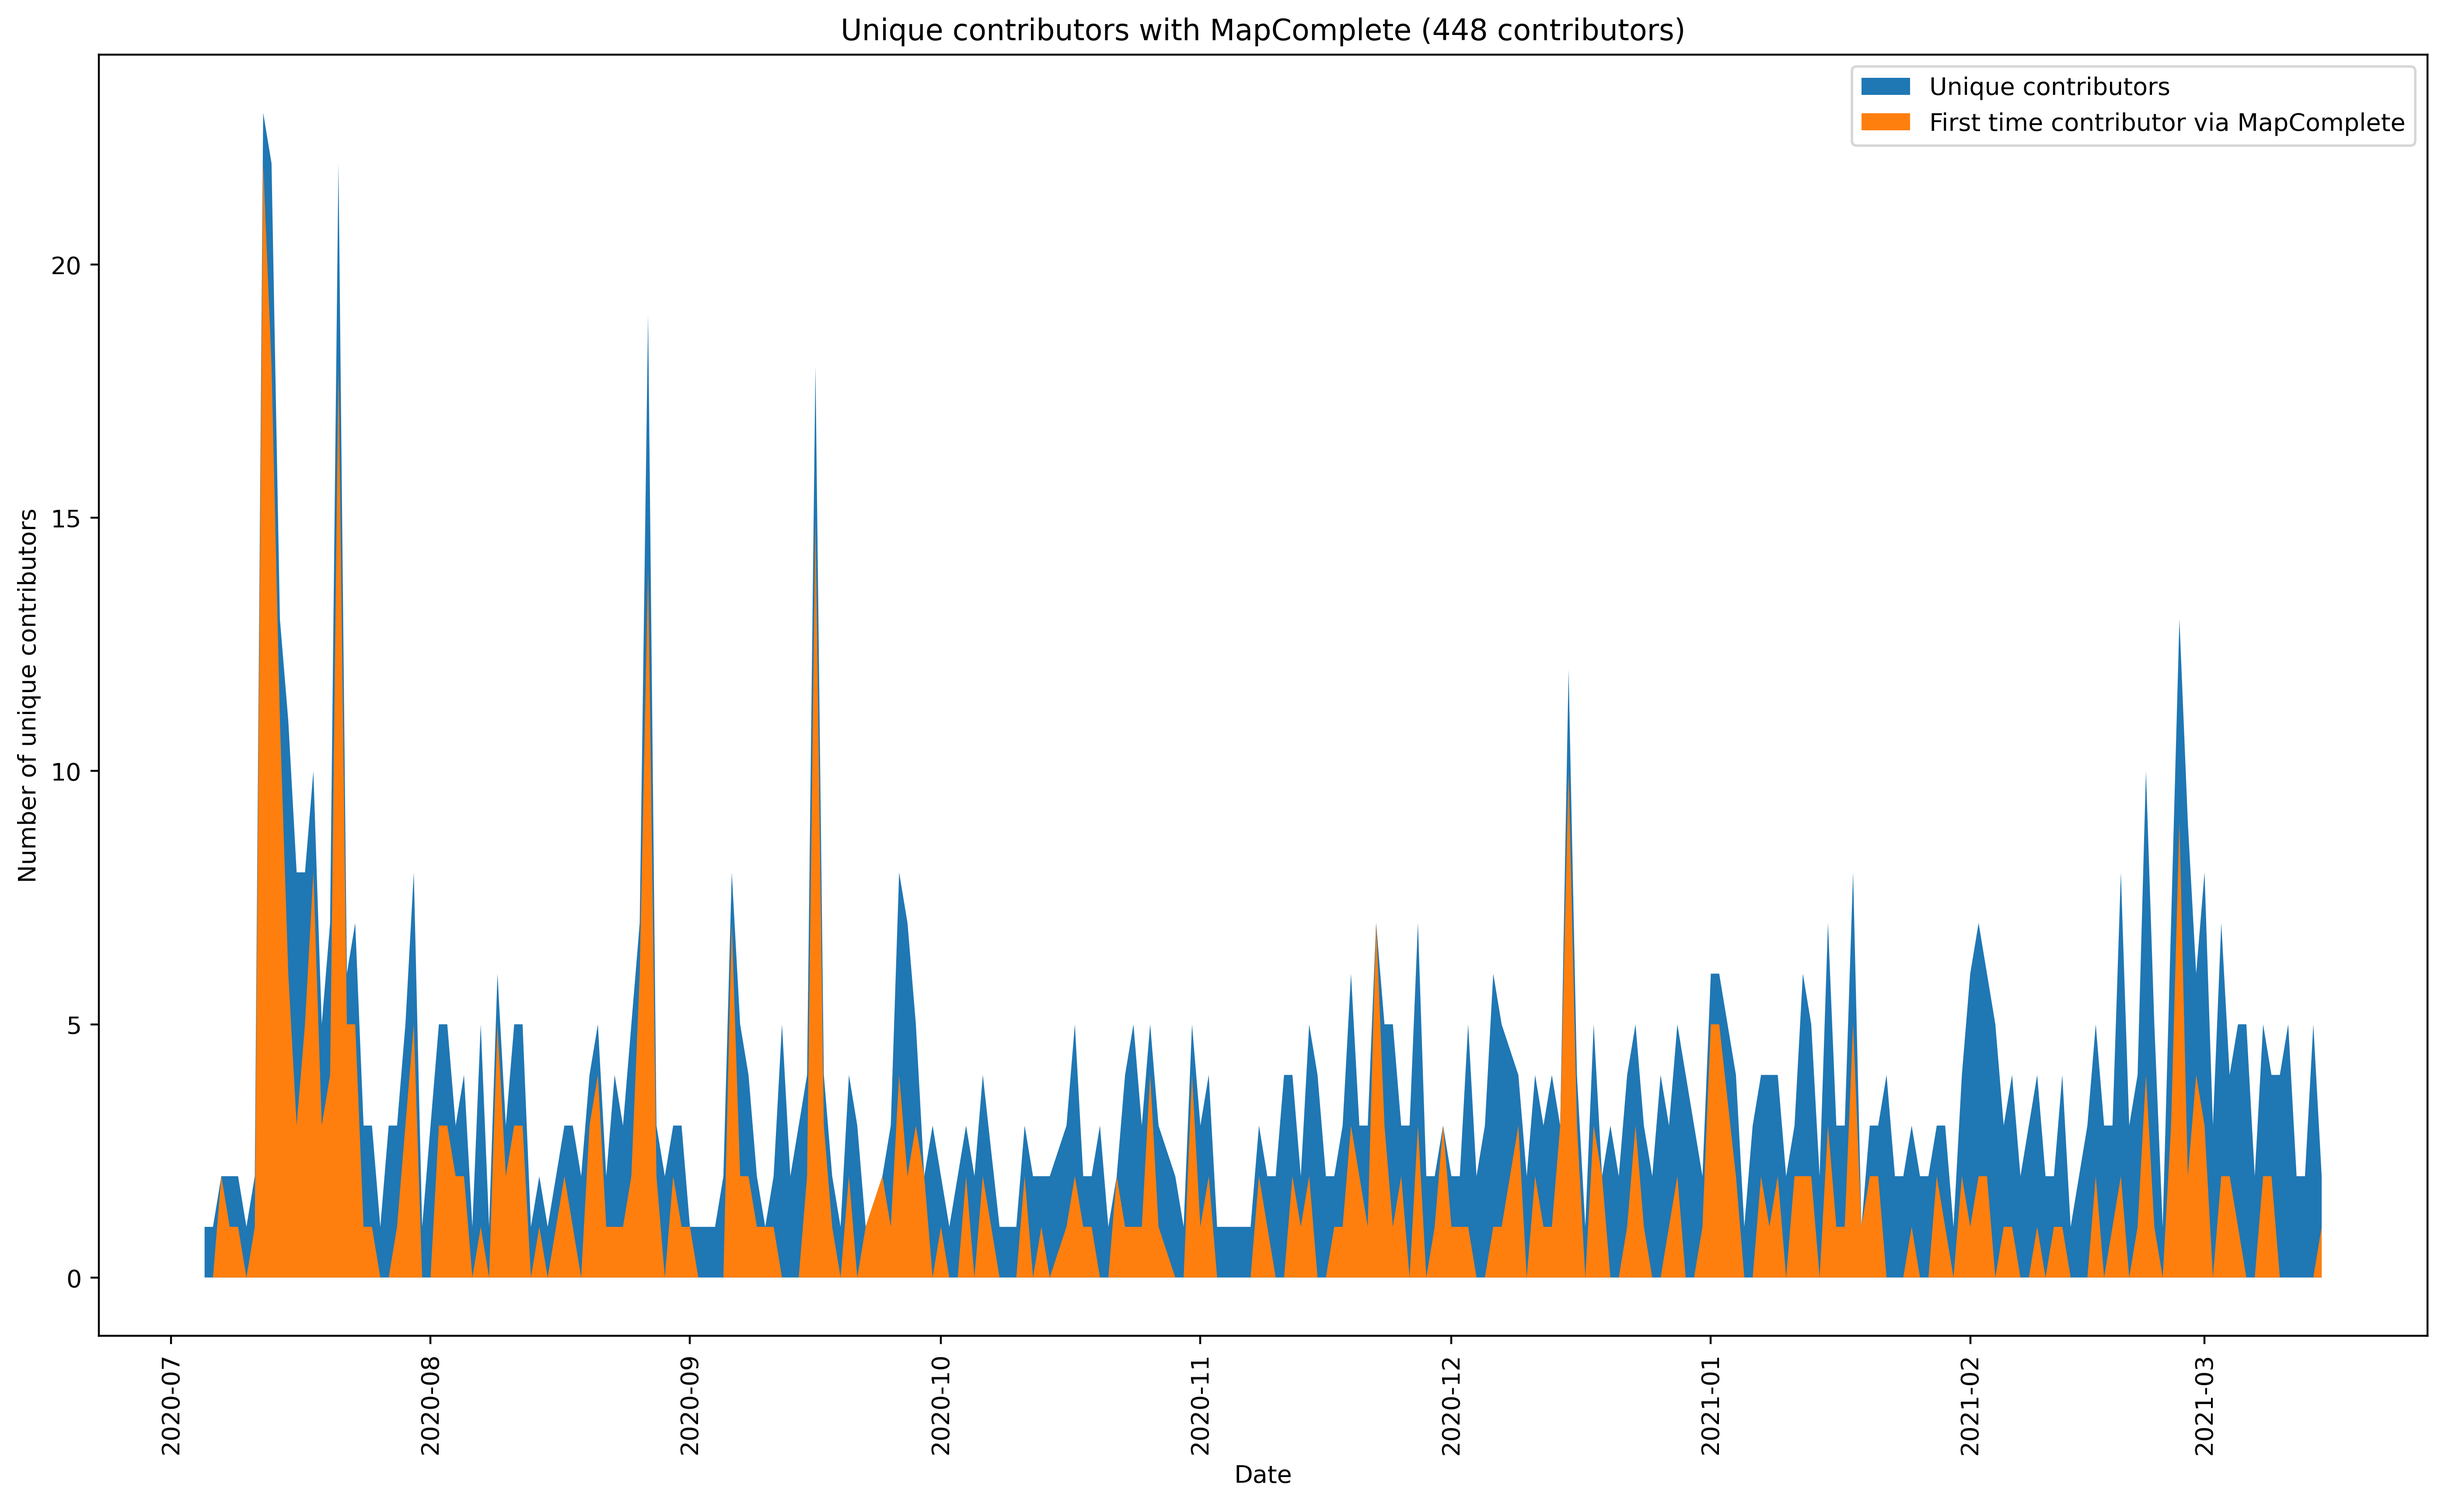
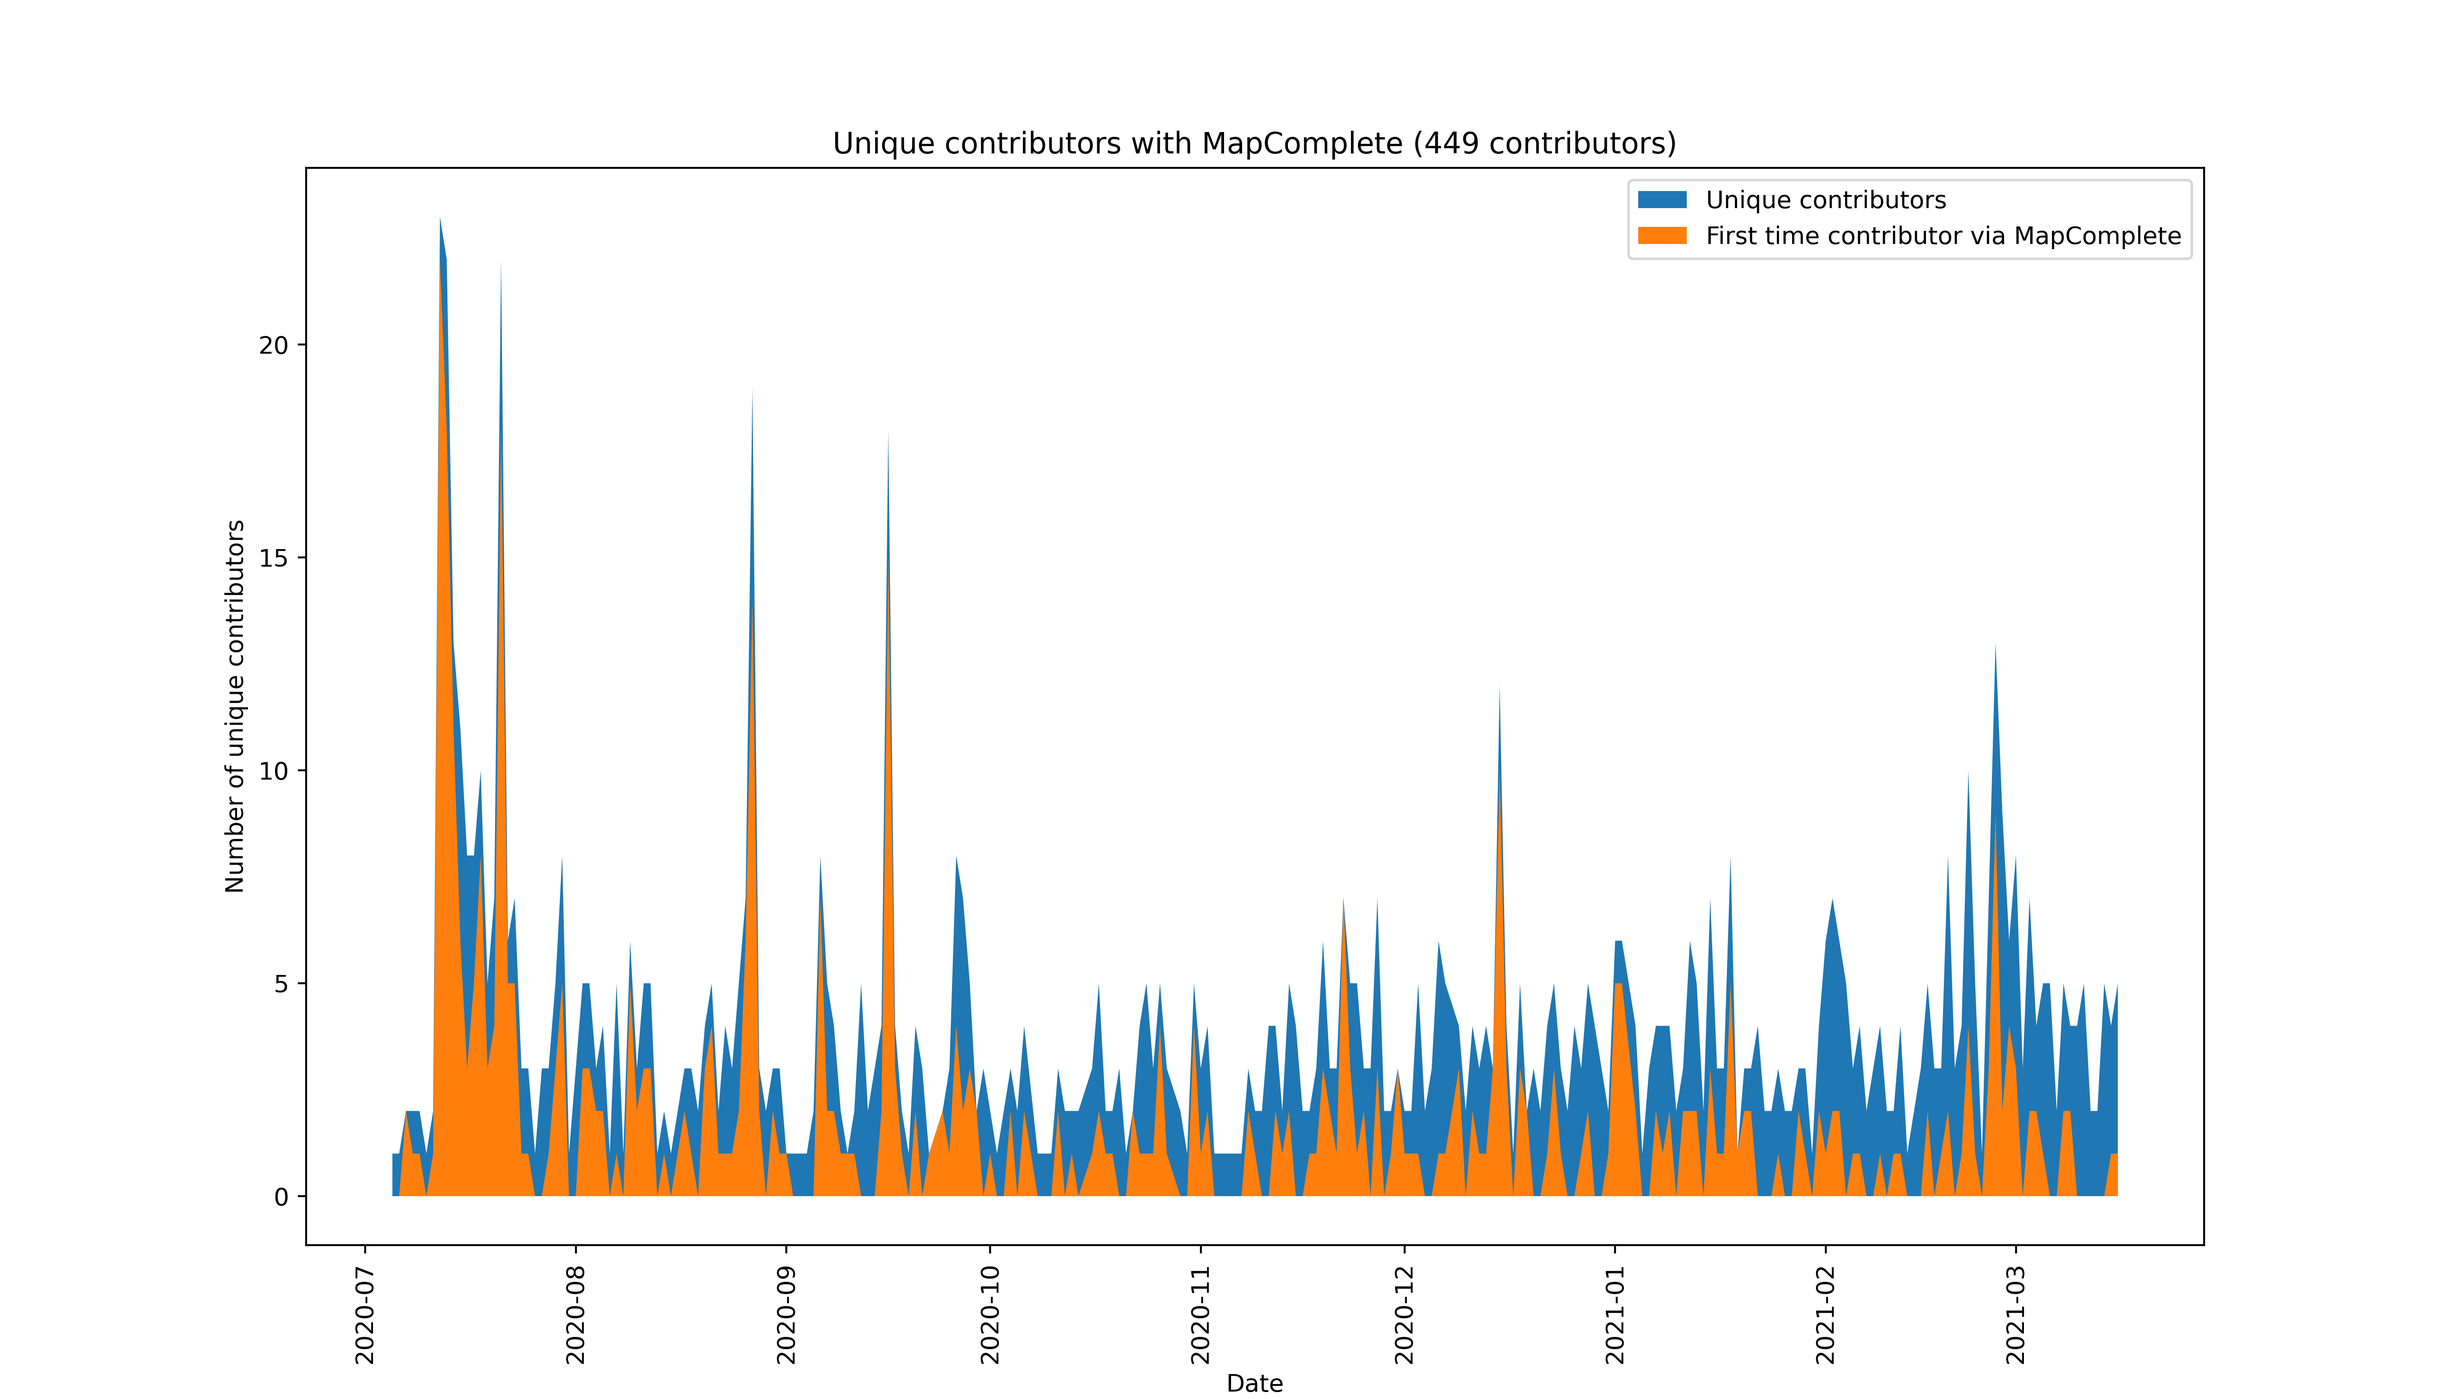
New stats

diff --git a/Docs/Tools/csvGrapher.py b/Docs/Tools/csvGrapher.py
@@ -1,7 +1,9 @@
 import csv
+import string
 from datetime import datetime
 
 from matplotlib import pyplot
+import re
 
 
 def counts(lst):
@@ -107,7 +109,6 @@ def cumulative_users(stats):
 def pyplot_init():
     pyplot.figure(figsize=(14, 8), dpi=200)
     pyplot.xticks(rotation='vertical')
-    pyplot.tight_layout()
 
 
 def create_usercount_graphs(stats, extra_text=""):
@@ -122,7 +123,7 @@ def create_usercount_graphs(stats, extra_text=""):
     pyplot.title("Unique contributors" + extra_text + ' with MapComplete (' + str(total) + ' contributors)')
     pyplot.ylabel("Number of unique contributors")
     pyplot.xlabel("Date")
-    pyplot.savefig("Contributors" + extra_text + ".png", dpi=400, facecolor='w', edgecolor='w', bbox_inches='tight')
+    pyplot.savefig("Contributors" + extra_text + ".png", dpi=400, facecolor='w', edgecolor='w')
 
     pyplot_init()
     pyplot.plot(dates, cumul_uniq, label='Cumulative unique contributors')
@@ -130,8 +131,7 @@ def create_usercount_graphs(stats, extra_text=""):
     pyplot.title("Cumulative unique contributors" + extra_text + " with MapComplete - " + str(total) + " contributors")
     pyplot.ylabel("Number of unique contributors")
     pyplot.xlabel("Date")
-    pyplot.savefig("CumulativeContributors" + extra_text + ".png", dpi=400, facecolor='w', edgecolor='w',
-                   bbox_inches='tight')
+    pyplot.savefig("CumulativeContributors" + extra_text + ".png", dpi=400, facecolor='w', edgecolor='w')
 
 
 def create_theme_breakdown(stats, fileExtra="", cutoff=5):
@@ -248,14 +248,20 @@ def contents_where(contents, index, starts_with, invert=False):
             yield row
 
 
+def sortable_user_number(kv):
+    str = kv[0]
+    ls = list(map(lambda str : "0"+str if len(str) < 2 else str, re.findall("[0-9]+", str)))
+    return ".".join(ls)
+
+
 def create_graphs(contents):
+    cumulative_changes_per(contents, 4, "version number", cutoff=1, sort=sortable_user_number)
     create_usercount_graphs(contents)
     create_theme_breakdown(contents)
     cumulative_changes_per(contents, 3, "theme", cutoff=10)
     cumulative_changes_per(contents, 3, "theme", cutoff=10, cumulative=False)
     cumulative_changes_per(contents, 1, "contributor", cutoff=15)
     cumulative_changes_per(contents, 2, "language", cutoff=1)
-    cumulative_changes_per(contents, 4, "version number", cutoff=1, sort=lambda kv : kv[0])
     cumulative_changes_per(contents, 8, "host", cutoff=1)
 
     currentYear = datetime.now().year
@@ -268,9 +274,35 @@ def create_graphs(contents):
         cumulative_changes_per(contents_filtered, 3, "theme", extratext, cutoff=5, cumulative=False)
         cumulative_changes_per(contents_filtered, 1, "contributor", extratext, cutoff=10)
         cumulative_changes_per(contents_filtered, 2, "language", extratext, cutoff=1)
-        cumulative_changes_per(contents_filtered, 4, "version number", extratext, cutoff=1, cumulative=False, sort=lambda kv : kv[0])
-        cumulative_changes_per(contents_filtered, 4, "version number", extratext, cutoff=1, sort=lambda kv : kv[0])
+        cumulative_changes_per(contents_filtered, 4, "version number", extratext, cutoff=1, cumulative=False,
+                               sort=sortable_user_number)
+        cumulative_changes_per(contents_filtered, 4, "version number", extratext, cutoff=1, sort=sortable_user_number)
         cumulative_changes_per(contents_filtered, 8, "host", extratext, cutoff=1)
+
+
+def create_per_theme_graphs(contents):
+    all_themes = set(map(lambda row: row[3], contents))
+    for theme in all_themes:
+        filtered = list(contents_where(contents, 3, theme))
+        if len(filtered) < 10:
+            # less then 10 changesets - we do not map it
+            continue
+        contributors = set(map(lambda row: row[1], filtered))
+        if len(contributors) < 2:
+            continue  # one contributor makes a boring graph
+        cumulative_changes_per(filtered, 1, "contributor", " for theme " + theme, cutoff=1)
+
+
+def create_per_contributor_graphs(contents, least_needed_changesets):
+    all_contributors = set(map(lambda row: row[1], contents))
+    for contrib in all_contributors:
+        filtered = list(contents_where(contents, 1, contrib))
+        if len(filtered) < least_needed_changesets:
+            continue
+        themes = set(map(lambda row: row[3], filtered))
+        if len(themes) < 2:
+            continue  # one theme makes a boring graph
+        cumulative_changes_per(filtered, 3, "theme", " for contributor " + contrib, cutoff=1)
 
 
 theme_remappings = {
@@ -282,10 +314,10 @@ theme_remappings = {
     "pomp": "cyclofix",
     "wiki:user:joost_schouppe/campersite": "campersite",
     "wiki-user-joost_schouppe-geveltuintjes": "geveltuintjes",
-    "wiki-user-joost_schouppe-campersite": "campersites",
-    "wiki-User-joost_schouppe-campersite": "campersites",
+    "wiki-user-joost_schouppe-campersite": "campersite",
+    "wiki-User-joost_schouppe-campersite": "campersite",
     "wiki-User-joost_schouppe-geveltuintjes": "geveltuintjes",
-    "wiki:User:joost_schouppe/campersite": "campersites",
+    "wiki:User:joost_schouppe/campersite": "campersite",
     "https://raw.githubusercontent.com/osmbe/play/master/mapcomplete/geveltuinen/geveltuinen.json": "geveltuintjes"
 }
 
@@ -300,7 +332,8 @@ def clean_input(contents):
         if theme in theme_remappings:
             theme = theme_remappings[theme]
         row[3] = theme
-        row[4] = row[4].strip().strip("\"")[0:len("MapComplete x.x.x")]
+        row[4] = row[4].strip().strip("\"")[len("MapComplete "):]
+        row[4] = re.findall("[0-9]*\.[0-9]*\.[0-9]*", row[4])[0]
         yield [data.strip().strip("\"") for data in row]
 
 
@@ -310,6 +343,8 @@ def main():
         stats = list(clean_input(csv.reader(csvfile, delimiter=',', quotechar='"')))
         print("Found " + str(len(stats)) + " changesets")
         create_graphs(stats)
+        create_per_theme_graphs(stats)
+        create_per_contributor_graphs(stats, 50)
     print("All done!")
 
 
